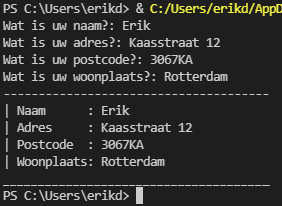
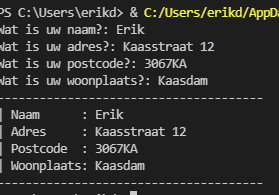
verbetering

Changed region(s): [[0.0, 0.0, 1.0, 0.4615], [0.0, 0.4923, 0.9462, 1.0]]

diff --git a/persons.py b/persons.py
@@ -8,6 +8,6 @@ print ('| Naam      : ' + (naam))
 print ('| Adres     : ' + (adres))
 print ('| Postcode  : ' + (postcode))
 print ('| Woonplaats: ' + (woonplaats))
-print ('______________________________________')
+print ('--------------------------------------')
 
 
